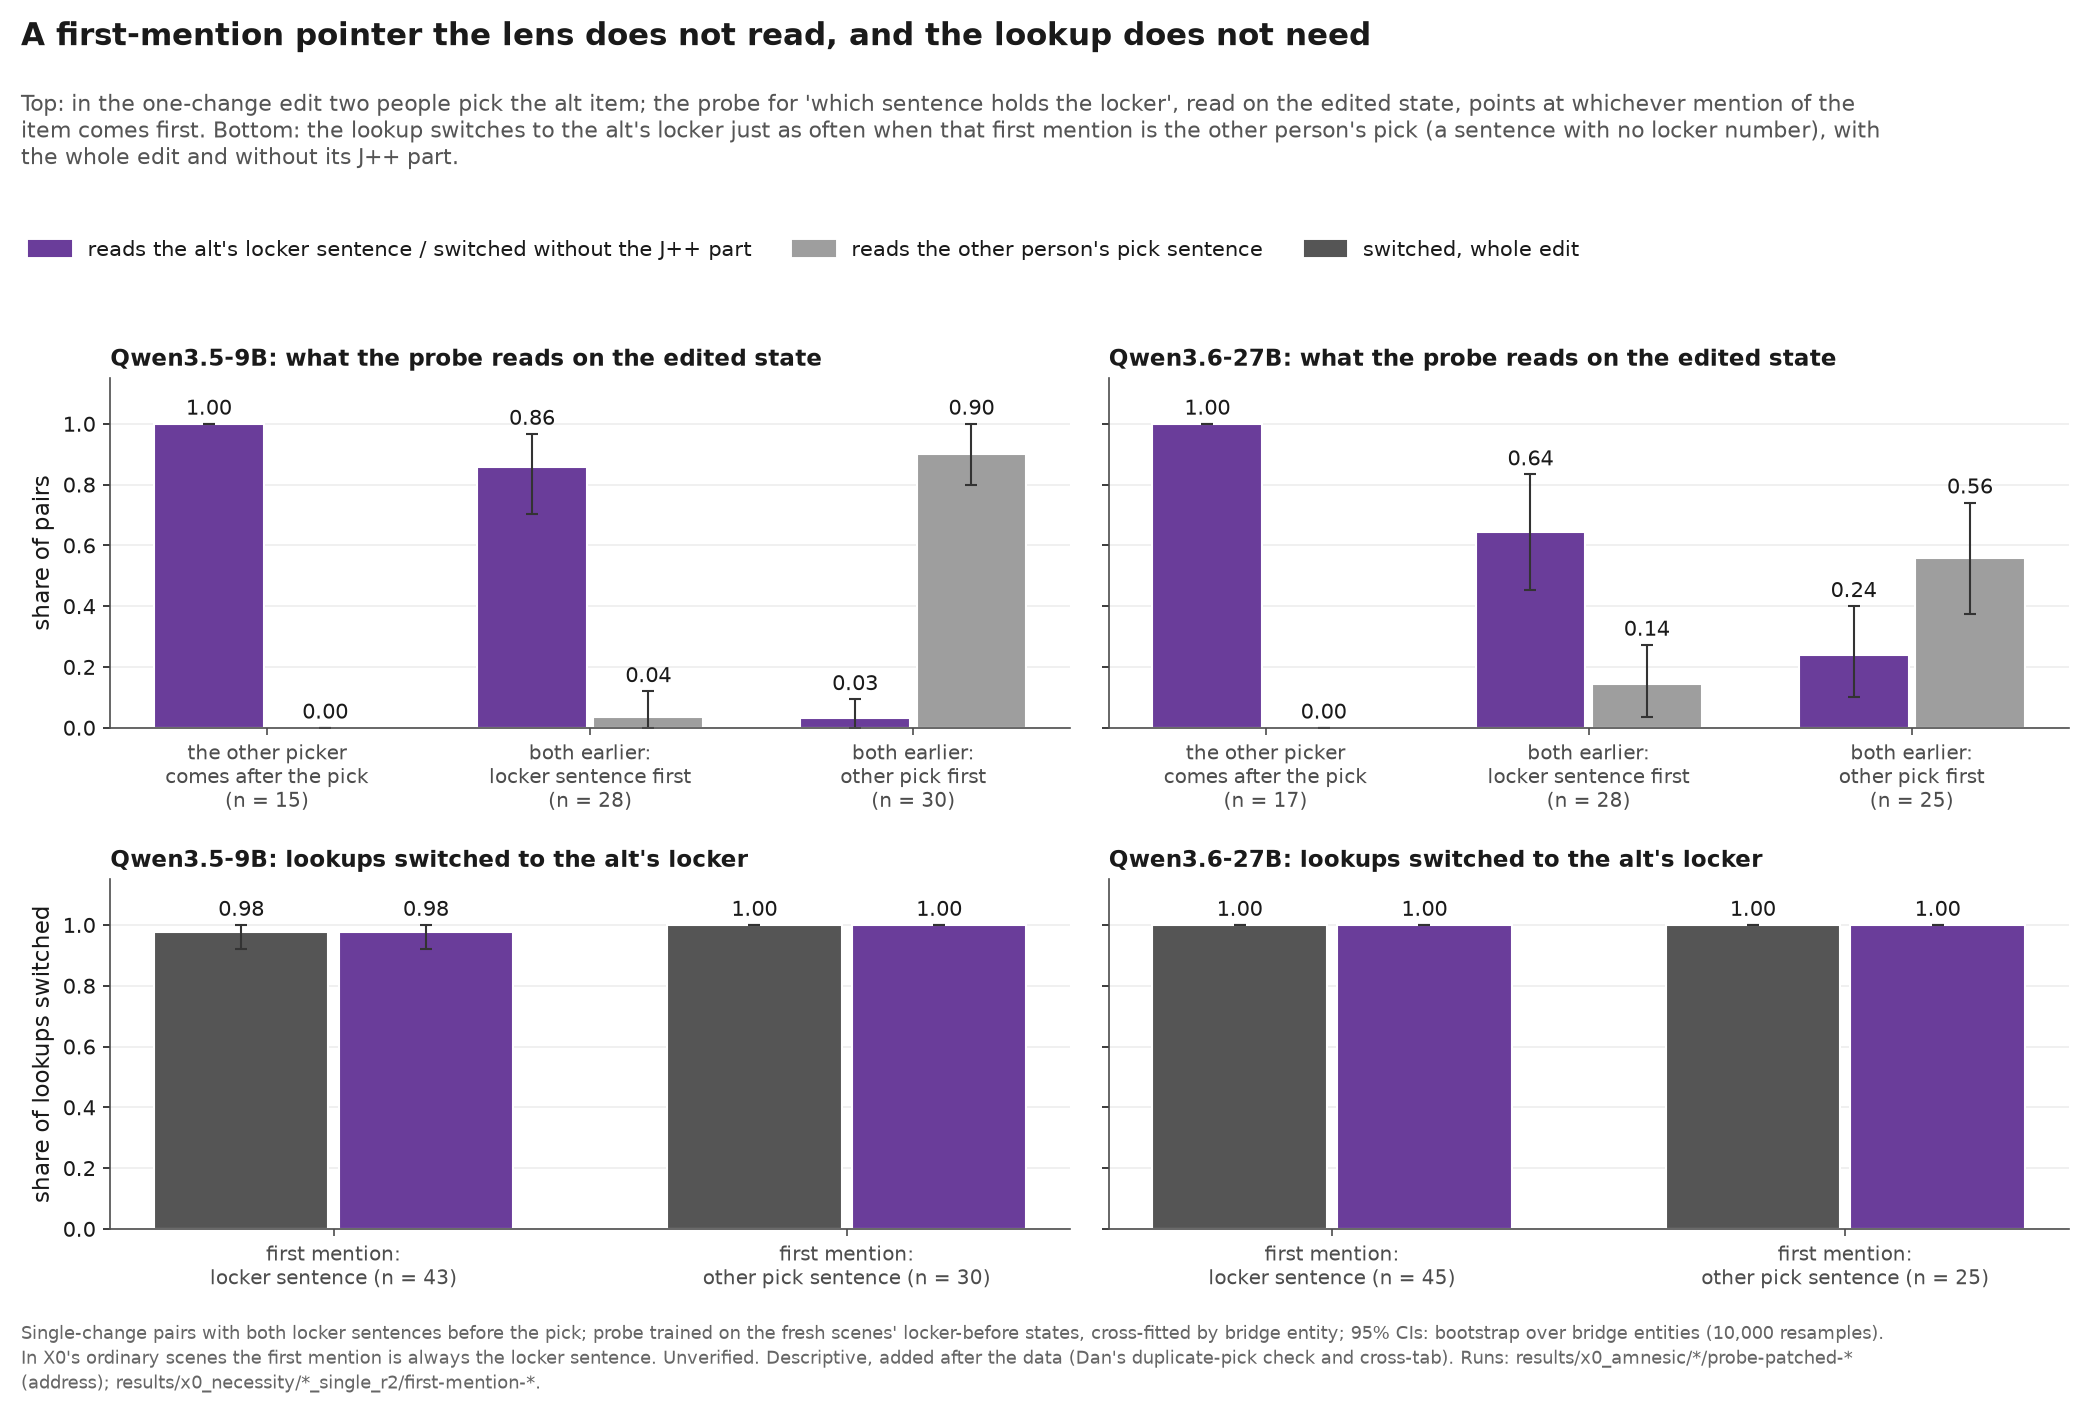
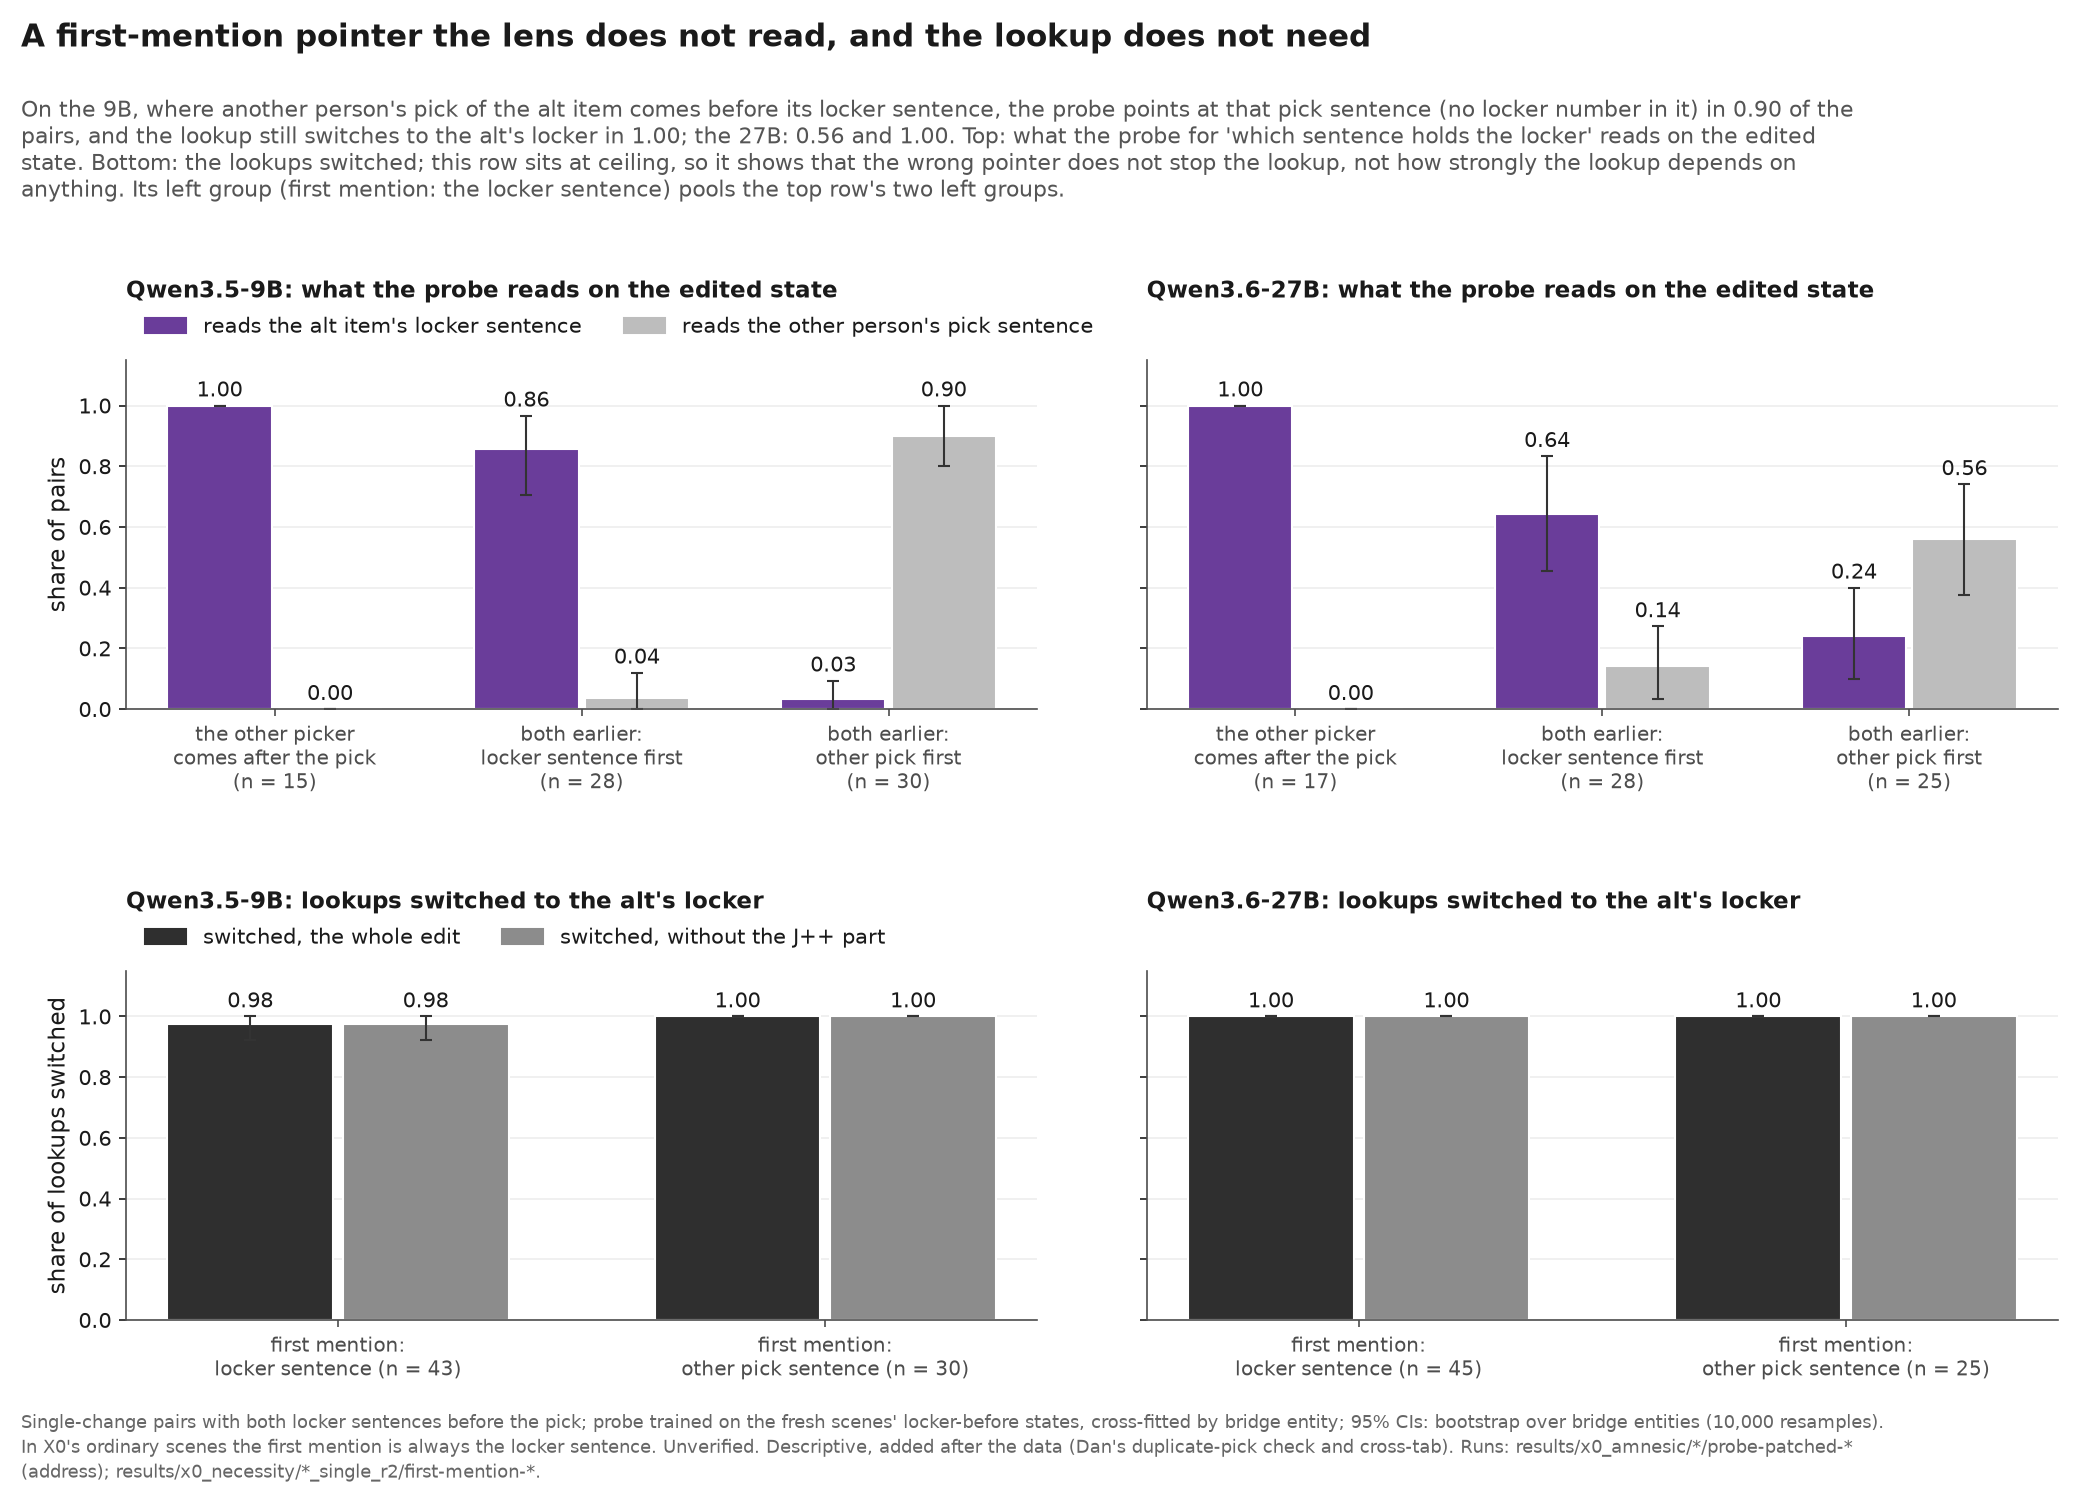
F9 (Dan's fixes, no number changes): a legend and colours per row, the bottom row's ceiling and its pooling of the top row's left groups stated, the 9B read first in the subtitle

diff --git a/scripts/x0_status_pack.py b/scripts/x0_status_pack.py
@@ -405,7 +405,8 @@ SINGLE = {"qwen3.5-9b": "qwen35_9b_x0_single_r2", "qwen3.6-27b": "x0_single_27b_
 
 def f9(plt, F, color, grey) -> None:
     """The duplicate pick: on the single-change pairs, what the alt state's address readout points at, by where the alt
-    item's earlier mentions sit (top); the lookup's switch rate by the alt item's first earlier mention (bottom)."""
+    item's earlier mentions sit (top); the lookup's switch rate by the alt item's first earlier mention (bottom, at
+    ceiling). Dan's fixes (~21:10): a legend and colours per row, the ceiling and the pooling said, the 9B read first."""
     import json
 
     from scripts.x0_details import latest_patched
@@ -413,62 +414,69 @@ def f9(plt, F, color, grey) -> None:
     groups = (("after", "the other picker\ncomes after the pick"),
               ("before, the other pick is the latest earlier mention", "both earlier:\nlocker sentence first"),
               ("before, the alt locker is the latest earlier mention", "both earlier:\nother pick first"))  # fmt: skip
-    fig, axes = plt.subplots(2, len(AMNESIC), figsize=(14, 9.4), sharey="row")
+    top_cols = ((("alt right", F.LOOKUP, "reads the alt item's locker sentence")),
+                ("alt state reads the other pick sentence", "#bdbdbd", "reads the other person's pick sentence"))  # fmt: skip
+    bottom_cols = (("whole", "#2f2f2f", "switched, the whole edit"),
+                   ("without the J++ part", "#8c8c8c", "switched, without the J++ part"))  # fmt: skip
+    fig, axes = plt.subplots(2, len(AMNESIC), figsize=(14, 10), sharey="row")
+    read = {}
     for col_i, (target, (label, run)) in enumerate(AMNESIC.items()):
         ax = axes[0, col_i]
-        path = latest_patched(run, "address")
-        dup = json.loads(path.read_text())["results"]["duplicate_pick_split"]
+        dup = json.loads(latest_patched(run, "address").read_text())["results"]["duplicate_pick_split"]
         for i, (key, _) in enumerate(groups):
             d = dup[key]
-            for j, (m, col, what) in enumerate((("alt right", F.LOOKUP, "the alt's locker sentence"),
-                                                ("alt state reads the other pick sentence", "#9e9e9e", "the other pick sentence"))):  # fmt: skip
+            for j, (m, col, what) in enumerate(top_cols):
                 v, lo, hi = d[m]
                 x = i + (j - 0.5) * 0.36
                 ax.bar(x, v, width=0.34, color=col, edgecolor="white")
                 ax.errorbar(x, v, yerr=[[v - lo], [hi - v]], color="#333333", capsize=3, lw=1)
                 ax.text(x, hi + 0.03, f"{v:.2f}", ha="center", fontsize=10)
-                record("f9", target, run, "-", "-", f"alt state reads {what}: {key}", v, lo, hi, d["n"])
+                record("f9", target, run, "-", "-", f"alt state {what}: {key}", v, lo, hi, d["n"])
         ax.set_xticks(range(len(groups)), [f"{g[1]}\n(n = {dup[g[0]]['n']})" for g in groups], fontsize=9.5)
-        ax.set_title(f"{label}: what the probe reads on the edited state", fontsize=11)
+        ax.set_title(f"{label}: what the probe reads on the edited state", fontsize=11, pad=30)
         ax.set_ylim(0, 1.15)
-        # bottom: the lookup's switch rate by the first earlier mention
         bx = axes[1, col_i]
         fm_path = sorted((X.RESULTS / SINGLE[target]).glob("first-mention-*/first_mention.json"))[-1]
         fm = [r for r in json.loads(fm_path.read_text())["rows"] if r["reader"] == X.LOOKUP]
         for i, r in enumerate(fm):
-            for j, (arm, col) in enumerate((("whole", "#555555"), ("without the J++ part", F.LOOKUP))):
+            for j, (arm, col, what) in enumerate(bottom_cols):
                 v, lo, hi = r[arm]
                 x = i + (j - 0.5) * 0.36
                 bx.bar(x, v, width=0.34, color=col, edgecolor="white")
                 bx.errorbar(x, v, yerr=[[v - lo], [hi - v]], color="#333333", capsize=3, lw=1)
                 bx.text(x, hi + 0.03, f"{v:.2f}", ha="center", fontsize=10)
-                record("f9", target, SINGLE[target], X.PREDICTED[target], X.LOOKUP,
-                       f"lookup switched ({arm}), first mention: {r['first']}", v, lo, hi, r["n"])  # fmt: skip
+                record("f9", target, SINGLE[target], X.PREDICTED[target], X.LOOKUP, f"lookup {what}, first mention: "
+                       f"{r['first']}", v, lo, hi, r["n"])  # fmt: skip
         bx.set_xticks(
             range(len(fm)), [f"first mention:\n{r['first']} sentence (n = {r['n']})" for r in fm], fontsize=9.5
         )
-        bx.set_title(f"{label}: lookups switched to the alt's locker", fontsize=11)
+        bx.set_title(f"{label}: lookups switched to the alt's locker", fontsize=11, pad=30)
         bx.set_ylim(0, 1.15)
         for a_ in (ax, bx):
             a_.grid(axis="y", color="#eeeeee")
             a_.set_axisbelow(True)
+        other = next(r for r in fm if r["first"] == "other pick")
+        read[label] = (dup[groups[2][0]]["alt state reads the other pick sentence"][0], other["whole"][0])
     axes[0, 0].set_ylabel("share of pairs")
     axes[1, 0].set_ylabel("share of lookups switched")
-    h = [plt.Rectangle((0, 0), 1, 1, color=F.LOOKUP), plt.Rectangle((0, 0), 1, 1, color="#9e9e9e"),
-         plt.Rectangle((0, 0), 1, 1, color="#555555")]  # fmt: skip
+    axes[0, 0].legend([plt.Rectangle((0, 0), 1, 1, color=c) for _, c, _ in top_cols], [w for _, _, w in top_cols],
+                      loc="lower left", bbox_to_anchor=(0, 1.01), ncol=2, frameon=False, fontsize=10)  # fmt: skip
+    axes[1, 0].legend([plt.Rectangle((0, 0), 1, 1, color=c) for _, c, _ in bottom_cols], [w for _, _, w in bottom_cols],
+                      loc="lower left", bbox_to_anchor=(0, 1.01), ncol=2, frameon=False, fontsize=10)  # fmt: skip
+    nine, twenty_seven = read["Qwen3.5-9B"], read["Qwen3.6-27B"]
     head(fig, "A first-mention pointer the lens does not read, and the lookup does not need",
-         "Top: in the one-change edit two people pick the alt item; the probe for 'which sentence holds the locker', read on "
-         "the edited state, points at whichever mention of the item comes first. Bottom: the lookup switches to the alt's "
-         "locker just as often when that first mention is the other person's pick (a sentence with no locker number), with "
-         "the whole edit and without its J++ part.",
-         h, ["reads the alt's locker sentence / switched without the J++ part", "reads the other person's pick sentence",
-             "switched, whole edit"])  # fmt: skip
+         f"On the 9B, where another person's pick of the alt item comes before its locker sentence, the probe points at that "
+         f"pick sentence (no locker number in it) in {nine[0]:.2f} of the pairs, and the lookup still switches to the alt's "
+         f"locker in {nine[1]:.2f}; the 27B: {twenty_seven[0]:.2f} and {twenty_seven[1]:.2f}. Top: what the probe for "
+         "'which sentence holds the locker' reads on the edited state. Bottom: the lookups switched; this row sits at "
+         "ceiling, so it shows that the wrong pointer does not stop the lookup, not how strongly the lookup depends on "
+         "anything. Its left group (first mention: the locker sentence) pools the top row's two left groups.")  # fmt: skip
     foot(fig, [f"Single-change pairs with both locker sentences before the pick; probe trained on the fresh scenes' "
                f"locker-before states, cross-fitted by bridge entity; {CI}. In X0's ordinary scenes the first mention is "
                "always the locker sentence. Unverified. Descriptive, added after the data (Dan's duplicate-pick check and "
                "cross-tab). Runs: results/x0_amnesic/*/probe-patched-* (address); results/x0_necessity/*_single_r2/"
                "first-mention-*."])  # fmt: skip
-    fig.tight_layout(rect=(0, 0.06, 1, 0.82))
+    fig.subplots_adjust(left=0.06, right=0.98, top=0.76, bottom=0.12, hspace=0.75, wspace=0.12)
     fig.savefig(OUT / "f9_first_mention.png", dpi=150, facecolor="white")
     plt.close(fig)
 
